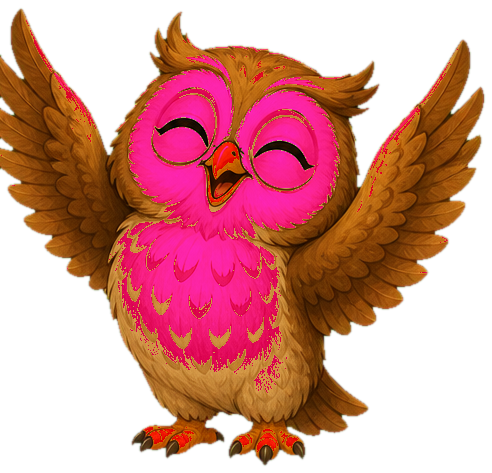
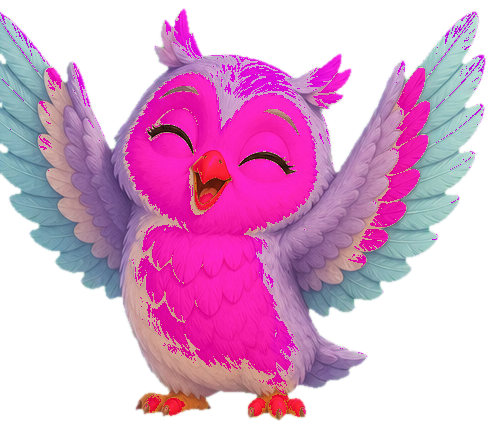
fix: remove old baked-in owl from counting forest bg + softer colorful owl sprite
- counting forest background regenerated (sunny forest, stream, broken bridge matching gameplay) — old vector owl was baked into the old bg art and showed alongside the new sprite
- owl sprite regenerated with soft lavender-purple + cream feathers and pastel teal wing tips (old one was reddish-brown, too harsh); same 4 emotions (idle/cheer/sad/encourage)
- counting bg.png 128KB -> bg.jpg 271KB new art

diff --git a/src/screens/counting_forest/screen.js b/src/screens/counting_forest/screen.js
@@ -29,7 +29,7 @@ class CountingForestScreen extends Phaser.Scene {
             // Không load BGM ở preload (file lớn) — lazy load sau khi vào màn
             ScreenLevelBackground.registerLevelBackground(this, bg, {});
         } else {
-            this.load.image('counting_forest_bg', 'screens/counting_forest/assets/backgrounds/bg.png');
+            this.load.image('counting_forest_bg', 'screens/counting_forest/assets/backgrounds/bg.jpg');
         }
         this.load.audio('voice_intro_1', 'screens/counting_forest/assets/audio/voice/intro_1.mp3');
         this.load.audio('voice_intro_2', 'screens/counting_forest/assets/audio/voice/intro_2.mp3');

diff --git a/src/screens/counting_forest/puzzle.js b/src/screens/counting_forest/puzzle.js
@@ -10,6 +10,6 @@ const CountingForestPuzzle = {
     background: {
         type: 'image',
         imageKey: 'counting_forest_bg',
-        imageUrl: 'screens/counting_forest/assets/backgrounds/bg.png',
+        imageUrl: 'screens/counting_forest/assets/backgrounds/bg.jpg',
     },
 };
